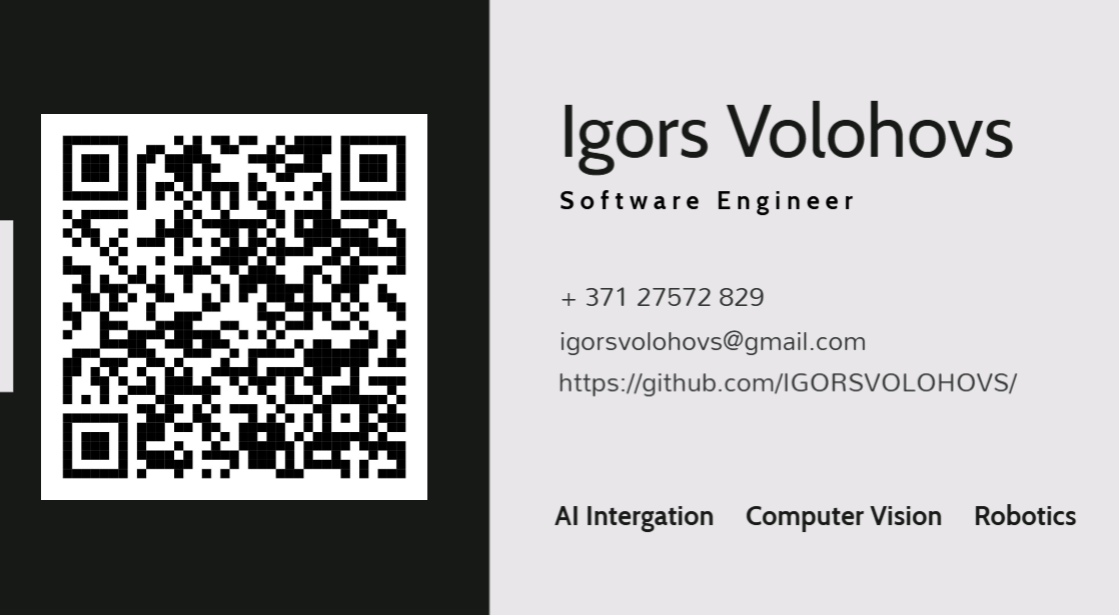
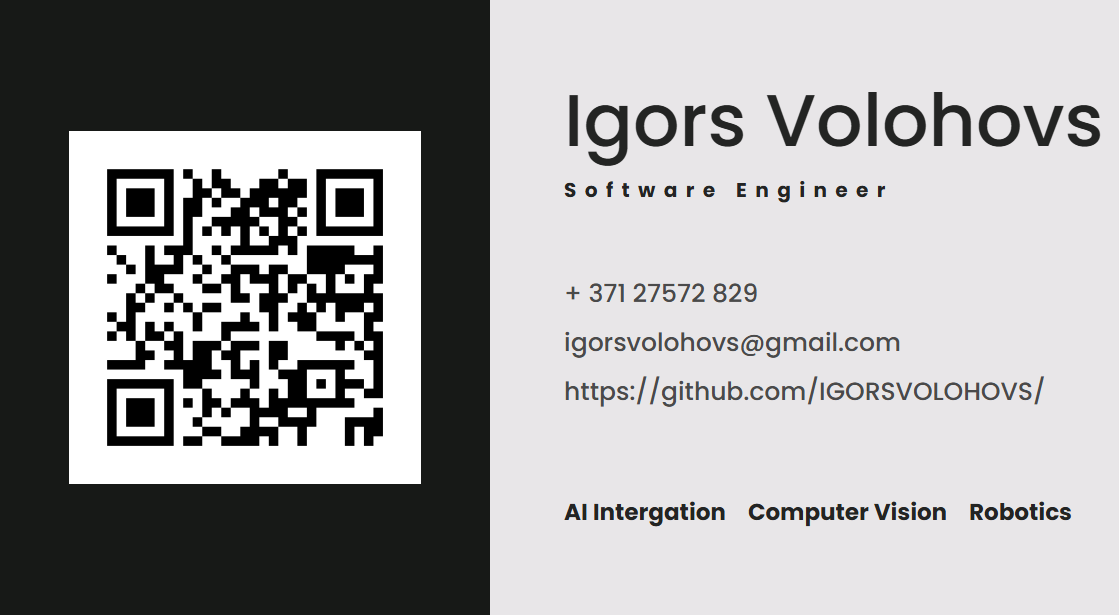
Enlarge card text ~20% and point the QR at Igors' real personal site
- generate.py: bump name/title/contact/tag font sizes by ~18-21%, retune
  gaps/margins so the tags row still fits on one line and the block still
  fits the card without overflow (verified via Playwright screenshot).
- card.json: qr_data now points to https://igorsvolohovs.github.io/,
  confirmed live and genuinely his (same phone/email/GitHub links as the
  card itself) - found via print.html/print_many.html referencing that
  domain, then verified with curl. No new site needed. Printed url text
  (GitHub link) left unchanged per request - only the QR target and font
  sizes were in scope.
- Regenerated front.png/back.png at the repo root with the new output.

diff --git a/generator/generate.py b/generator/generate.py
@@ -37,21 +37,21 @@ DESIGN = {
     "light_bg": "#e8e6e8",
     "text_strong": "#232423",
     "text_muted": "#4a4a4a",
-    "name_size": 61,
+    "name_size": 73,  # +20% over the pixel-matched baseline (61), per request to enlarge all text
     "name_weight": 500,
-    "title_size": 17,
+    "title_size": 20,  # +18%
     "title_weight": 700,
     "title_tracking": 0.42,
-    "contact_size": 21,
+    "contact_size": 25,  # +19%
     "contact_gap": 11,
-    "tag_size": 19,
+    "tag_size": 23,  # +21%
     "tag_weight": 700,
-    "tag_gap": 30,
+    "tag_gap": 22,  # reduced from 30 so the wider tags still fit on one line
     "light_pad_x": 74,
-    "light_pad_top": 94,
-    "title_margin_top": 20,
-    "contacts_margin_top": 79,
-    "tags_margin_top": 100,
+    "light_pad_top": 84,  # nudged up slightly so the taller block still centers well
+    "title_margin_top": 18,
+    "contacts_margin_top": 70,
+    "tags_margin_top": 84,
     "qr_display_frac": "72%",
 }
 

diff --git a/generator/README.md b/generator/README.md
@@ -43,19 +43,22 @@ image, same dimensions as front).
   "phone": "+ 371 27572 829",
   "email": "igorsvolohovs@gmail.com",
   "url": "https://github.com/IGORSVOLOHOVS/",
-  "qr_data": "https://drive.google.com/file/d/1KZ-9BdiNiwJA-Vhuv_0yth_-QPesE806/view?usp=drivesdk",
+  "qr_data": "https://igorsvolohovs.github.io/",
   "tags": ["AI Intergation", "Computer Vision", "Robotics"]
 }
 ```
 
 - `name`, `title`, `phone`, `email`, `url`, `tags` - printed as text on the
   card.
-- `qr_data` - the payload actually **encoded** into the QR code. This is
-  deliberately a separate field from `url`: decoding the original card's QR
-  code (via OpenCV) showed it points to a Google Drive link, not the GitHub
-  URL printed next to it as text. `card.json` above reproduces that exactly;
-  point `qr_data` at whatever URL/vCard/text you want scanning the card to
-  open.
+- `qr_data` - the payload actually **encoded** into the QR code, kept as a
+  separate field from `url` on purpose: decoding the *original* printed
+  card's QR code (via OpenCV) showed it pointed to a Google Drive link, not
+  the GitHub URL printed next to it as text - so the two were never
+  guaranteed to be the same thing. `qr_data` now points to
+  `https://igorsvolohovs.github.io/`, Igor's existing personal site
+  (confirmed live - same phone/email/GitHub links as this card), while `url`
+  stays the printed GitHub link, unchanged. Point `qr_data` at whatever URL/
+  vCard/text you want scanning the card to open.
 - `tags` can hold any number of entries; note the original artwork has a
   typo ("AI Intergation") which `card.json` reproduces on purpose for an
   accurate pixel comparison against the original design - fix it in your own
